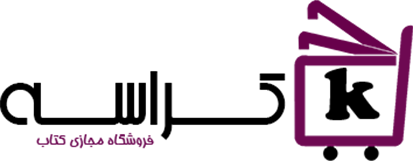
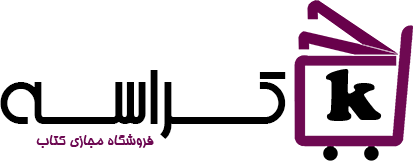
2 move

diff --git a/html/base.html b/html/base.html
@@ -46,8 +46,8 @@ body {
 				<div class="col-md-12 column" style="border: 5px solid #FFFFFF;border-top-right-radius: 20px;border-bottom-right-radius: 20px;border-bottom-left-radius: 20px;border-top-left-radius: 20px;;background-color:#e4ded3">
 
 
-                    <img src="img/Toranj.png" border="0" alt="logo"  style=" position: relative;left :-300px;top: -10px; ">
-       				<img src="img/Banafsh.png" border="0" alt="logo" style=" position: relative; right :125px; top:-40px ">
+                    <img src="img/Toranj.png" border="0" alt="logo"  style=" position: relative;left :-300px;top: -13px; ">
+       				<img src="img/Banafsh.png" border="0" alt="logo" style=" position: relative; right :125px; top:-35px ">
 					 
 
 				</div>
